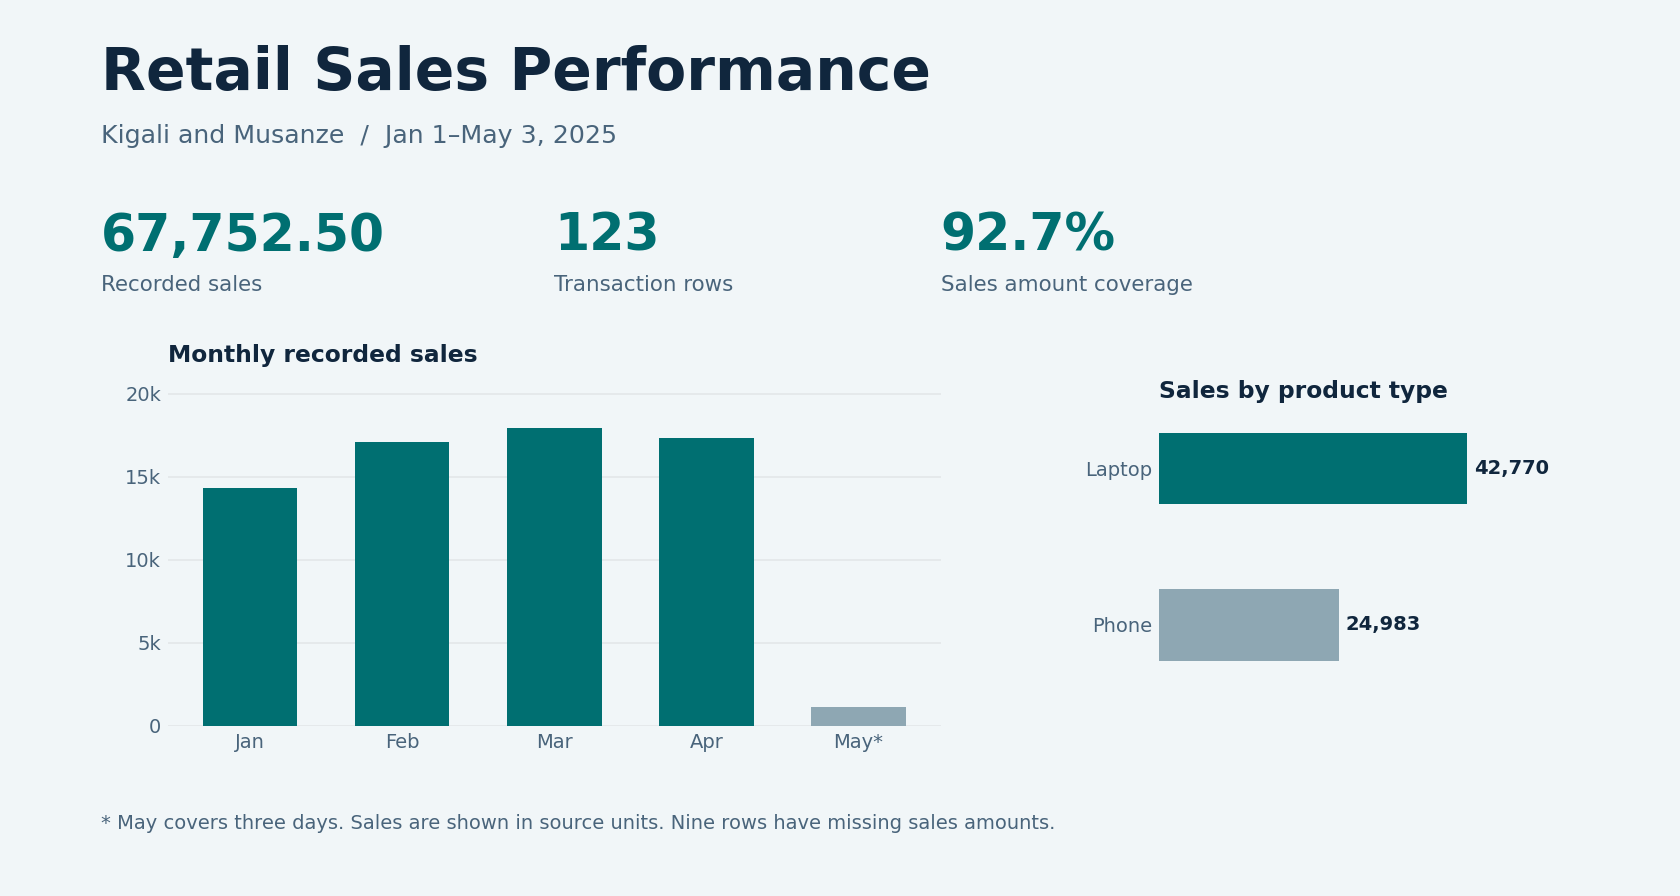
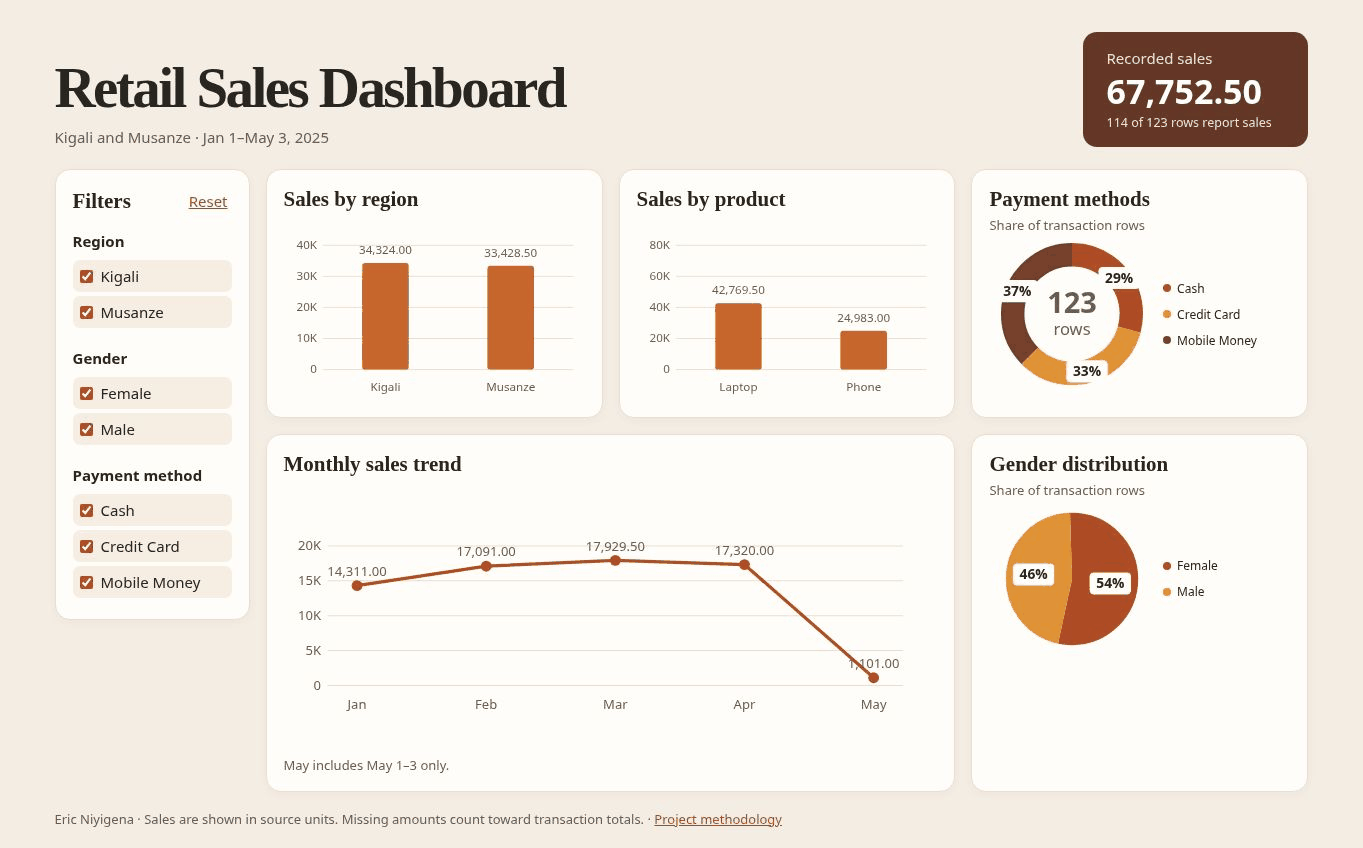
Replace the README image with the updated interactive dashboard

diff --git a/README.md b/README.md
@@ -8,7 +8,7 @@ A retail performance dashboard for Kigali and Musanze that shows when recorded s
 
 Use the Region, Gender, and Payment Method filters to explore the fixed dataset. The payment and gender charts show the share of matching transaction rows on each slice.
 
-![Retail sales overview showing monthly recorded sales and product mix](assets/retail-sales-overview.png)
+![Interactive Retail Sales Dashboard with sales charts, filters, and on-slice percentage labels](assets/retail-sales-overview.png)
 
 | Metric | Result |
 | --- | ---: |
